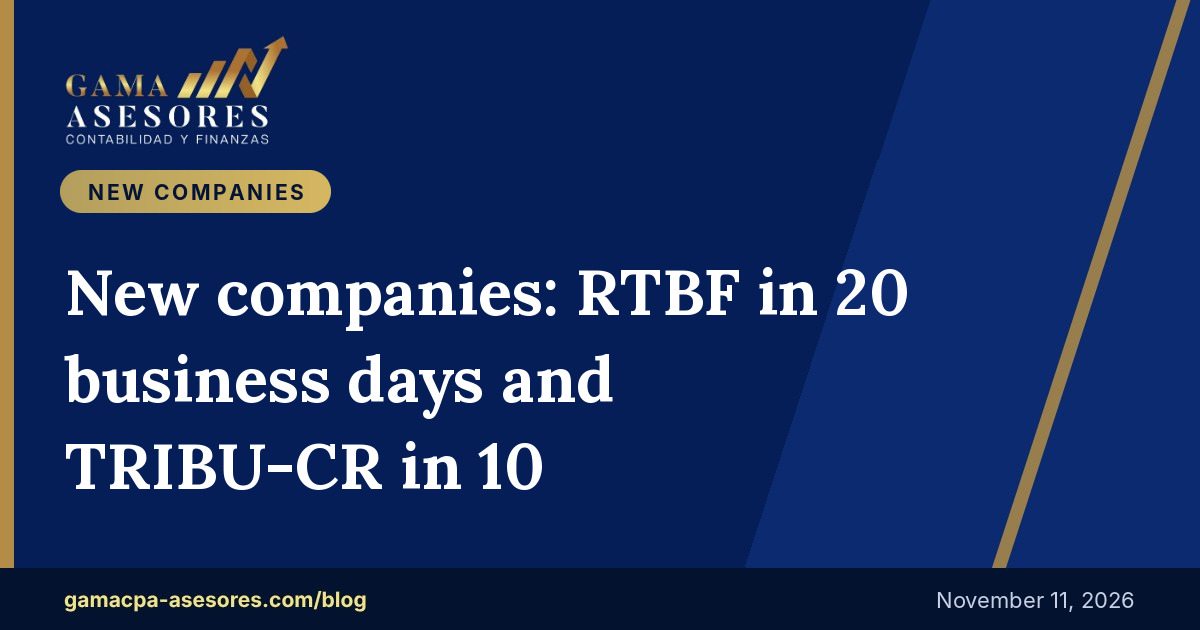
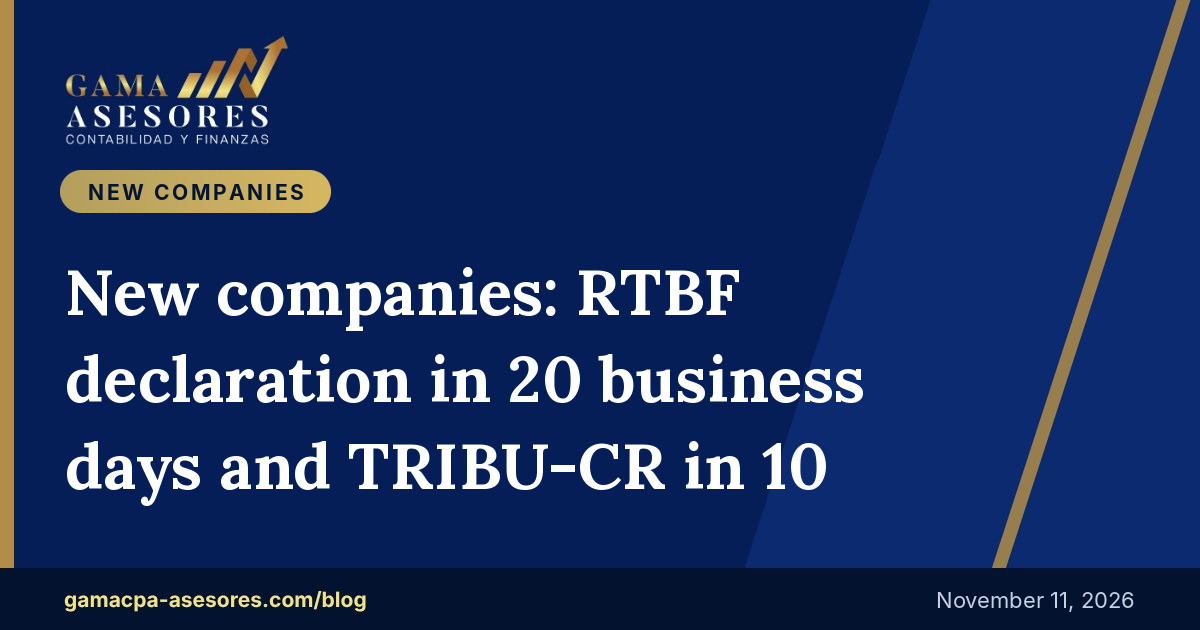
Artículo 15: título 'declaración del RTBF' y portadas actualizadas (ES/EN/HE)
Claude-Session: https://claude.ai/code/session_01QBSqqVYk28V4rW5MDVohxQ

Changed region(s): [[0.0308, 0.6937, 0.7092, 0.7841], [0.0308, 0.5429, 0.74, 0.6635], [0.6167, 0.4222, 0.7708, 0.5127]]

diff --git a/src/App.jsx b/src/App.jsx
@@ -827,7 +827,7 @@ Fuente: Decreto Ejecutivo N.º 45953-H, Alcance N.º 139 a La Gaceta N.º 196 de
           id: 15,
           category: "Empresas Nuevas",
           date: "11 de noviembre, 2026",
-          title: "Sociedades nuevas: RTBF en 20 días hábiles y TRIBU-CR en 10",
+          title: "Sociedades nuevas: declaración del RTBF en 20 días hábiles y TRIBU-CR en 10",
           summary: "Al inscribirse una sociedad en el Registro Nacional nacen dos obligaciones con plazos distintos: la declaración de Beneficiarios Finales (20 días hábiles, ante el Banco Central) y el registro y actualización de datos en el RUT por TRIBU-CR (10 días hábiles, ante Tributación). Explicamos plazos, base legal y sanciones.",
           content: `Cuando una sociedad queda inscrita en el Registro Nacional y se le asigna su cédula jurídica, empiezan a correr dos plazos que con frecuencia se confunden porque se cumplen ante instituciones distintas: la declaración del Registro de Transparencia y Beneficiarios Finales (RTBF), que se presenta ante el Banco Central de Costa Rica, y el registro y actualización de datos en el Registro Único Tributario (RUT), que se hace ante la Dirección General de Tributación por medio de TRIBU-CR. Una no sustituye a la otra, y ambas aplican aunque la sociedad todavía no tenga actividad económica.
 
@@ -1671,7 +1671,7 @@ Source: Executive Decree No. 45953-H, Supplement No. 139 to La Gaceta No. 196 of
           id: 15,
           category: "New Companies",
           date: "November 11, 2026",
-          title: "New companies: RTBF in 20 business days and TRIBU-CR in 10",
+          title: "New companies: RTBF declaration in 20 business days and TRIBU-CR in 10",
           summary: "When a company is registered with the National Registry, two obligations with different deadlines arise: the Final Beneficiaries declaration (20 business days, with the Central Bank) and the registration and update of data in the RUT through TRIBU-CR (10 business days, with the Tax Authority). We explain the deadlines, legal basis and penalties.",
           content: `When a company is registered with the National Registry and receives its legal ID number (cédula jurídica), two deadlines start running that are often confused because they are met before different institutions: the Transparency and Final Beneficiaries Registry (RTBF) declaration, filed with the Central Bank of Costa Rica, and the registration and update of data in the Single Taxpayer Registry (RUT), done with the Tax Authority (Dirección General de Tributación) through TRIBU-CR. One does not replace the other, and both apply even if the company has no economic activity yet.
 
@@ -2328,7 +2328,7 @@ Registro de Beneficiarios Finales: רישום הבעלים האמיתיים תו
           id: 15,
           category: "חברות חדשות",
           date: "11 בנובמבר, 2026",
-          title: "חברות חדשות: RTBF ב-20 ימי עסקים ו-TRIBU-CR ב-10",
+          title: "חברות חדשות: הצהרת RTBF ב-20 ימי עסקים ו-TRIBU-CR ב-10",
           summary: "עם רישום חברה במרשם הלאומי נוצרות שתי חובות עם מועדים שונים: הצהרת הנהנים הסופיים (20 ימי עסקים, מול הבנק המרכזי) ורישום ועדכון נתונים ב-RUT באמצעות TRIBU-CR (10 ימי עסקים, מול רשות המסים). אנו מסבירים את המועדים, הבסיס החוקי והסנקציות.",
           content: `כאשר חברה נרשמת במרשם הלאומי (Registro Nacional) ומוקצה לה מספר תאגיד (cédula jurídica), מתחילים לרוץ שני מועדים שנוטים להתבלבל ביניהם, משום שהם מתבצעים מול גופים שונים: הצהרת מרשם השקיפות והנהנים הסופיים (RTBF), המוגשת לבנק המרכזי של קוסטה ריקה, ורישום ועדכון נתונים במרשם המסים האחיד (RUT), המתבצע מול רשות המסים (Dirección General de Tributación) באמצעות מערכת TRIBU-CR. אחת אינה מחליפה את האחרת, ושתיהן חלות גם אם לחברה עדיין אין פעילות כלכלית.
 
